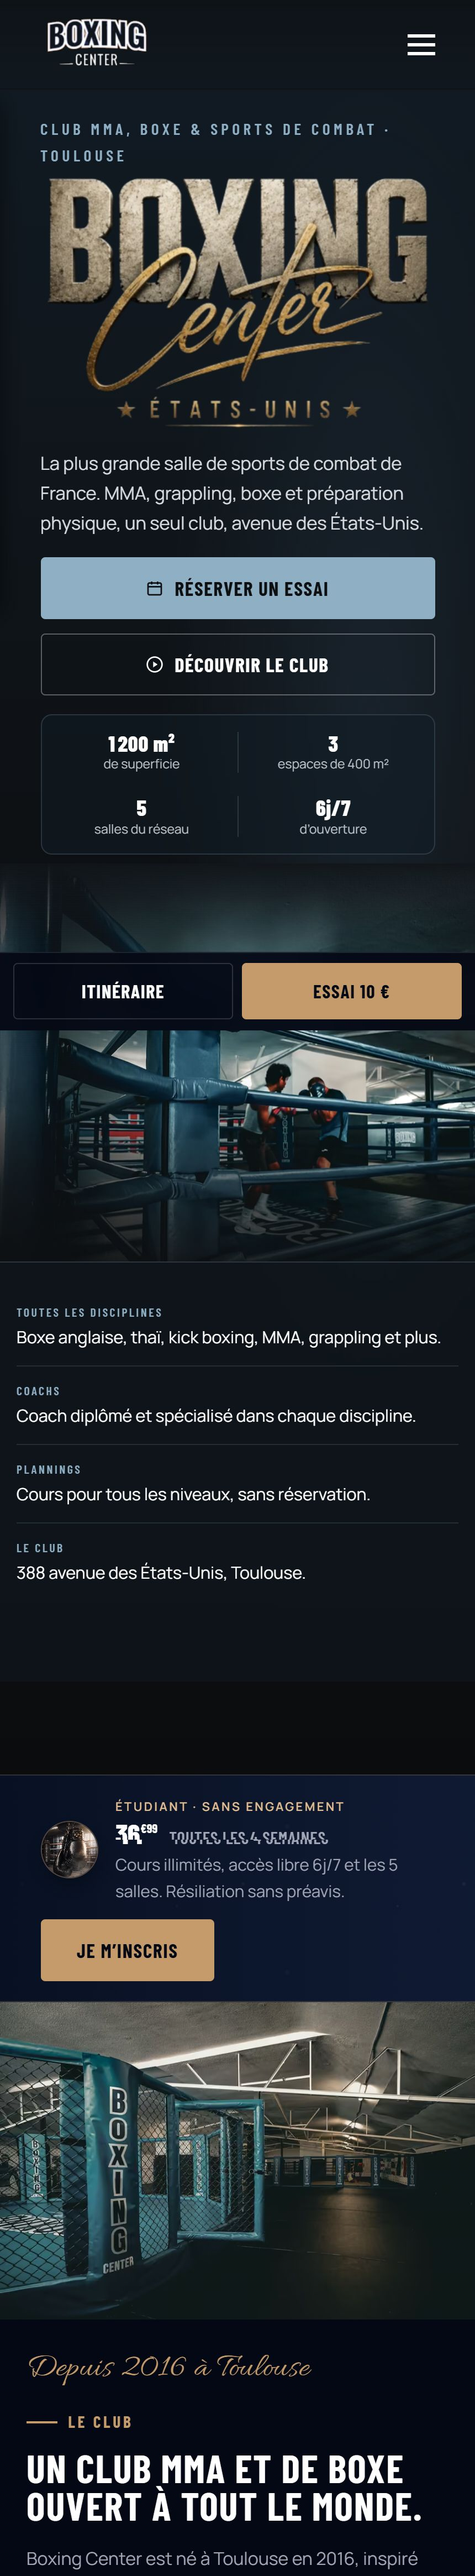
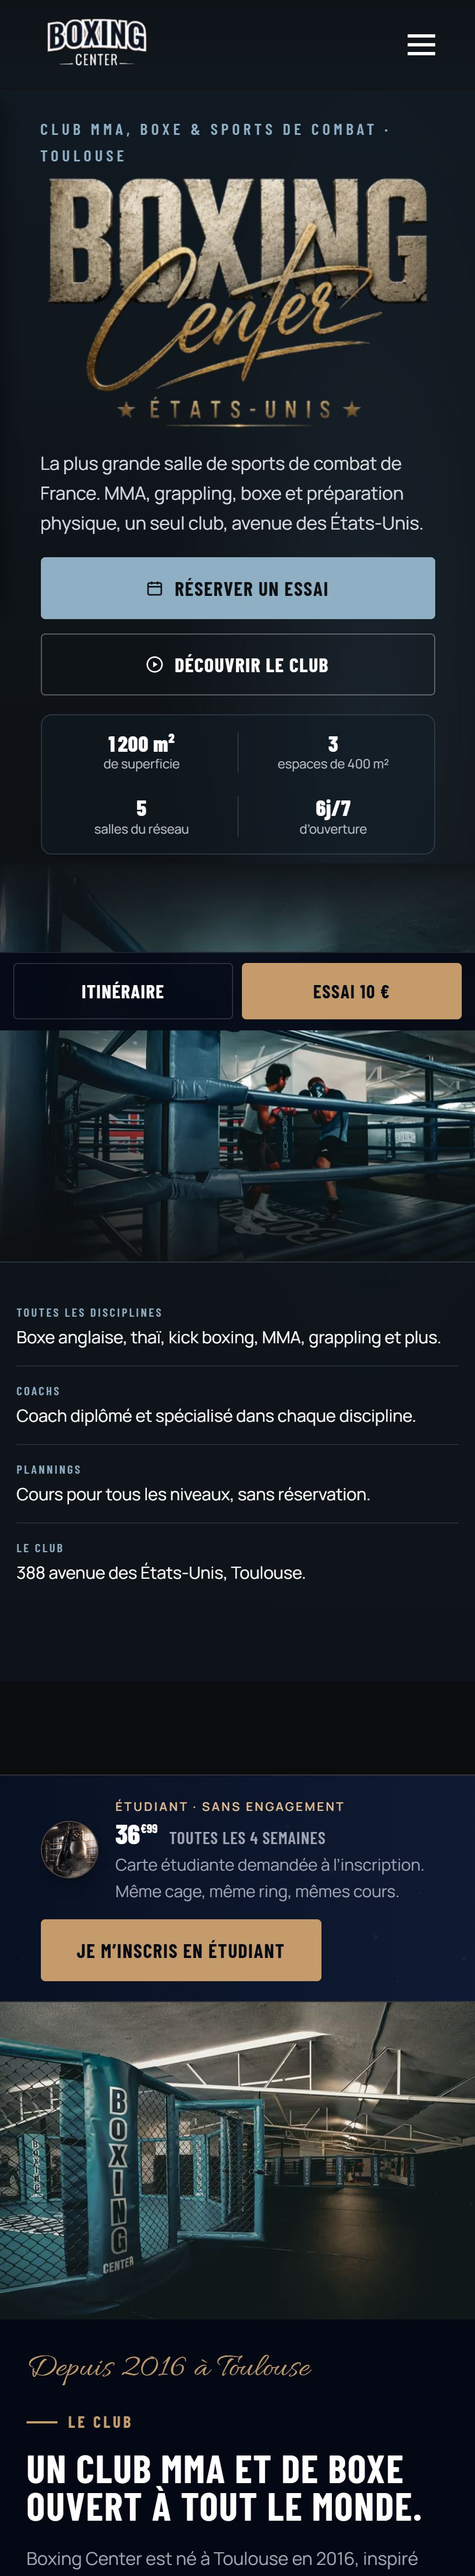
registre(eam): la capture d'États-Unis montre une seule offre à la fois ; l'assemblage des écrans choisit désormais sa couture là où les deux prises concordent
Sur la fiche de Boxing Center États-Unis, le bloc des offres ne mélange plus deux formules : la couture entre les écrans deux et trois tombait en plein milieu d'un bloc qui tourne toutes les cinq secondes, et l'on voyait le titre d'une formule, le texte de l'autre et un prix dédoublé. L'assemblage coupe maintenant dans la plus longue zone où les deux prises sont identiques, sur sa ligne la plus unie — jamais au travers d'un bloc qui bouge.

La marche garde aussi les cartes épinglées qui font partie du contenu : seules les barres (en-tête, navigation, bandeau fin collé à un bord) et les éléments fixes sont masqués à partir du deuxième écran.

Changed region(s): [[0.2721, 0.7157, 0.8465, 0.7779]]

diff --git a/scripts/capture-convert.py b/scripts/capture-convert.py
@@ -1,8 +1,10 @@
 """Turn a sweep's PNGs (scripts/capture-sweep.mjs) into the house JPEGs:
 <slug>.jpg from the desktop shot (2400 px wide, q82, progressive) and
 <slug>-m.jpg stitched from the phone segments (860 px wide; each segment
-pasted at twice its css scrollY, later segments over earlier ones; height
-capped at 4660 = 2.5 screens, never below 1864). Writes into <outDir>;
+pasted at twice its css scrollY; where two segments overlap, the seam is cut
+at the rows where they agree best, so a block that animates in time is taken
+whole from one shot — a fixed cut through clubmma.fr's rotating offers mixed
+two slides, 2026-11-08; height capped at 4660 = 2.5 screens, never below 1864). Writes into <outDir>;
 nothing touches public/thumbs here — copying is a separate, eyeballed step
 (scripts/capture-sheets.py draws the OLD | NEW sheets). Run with -I.
 
@@ -12,7 +14,7 @@ import json
 import os
 import sys
 
-from PIL import Image
+from PIL import Image, ImageChops, ImageStat
 
 sweep, out = sys.argv[1], sys.argv[2]
 only = set(sys.argv[3:])
@@ -22,6 +24,47 @@ SCREEN2X = 1864
 MAX2X = 4660
 report = []
 gaps = []
+seams = []
+QUIET = 2  # a row where the two shots differ by less than this agrees
+
+
+def row_costs(a, b):
+    """Per-row mean absolute difference between two equally sized bands."""
+    d = ImageChops.difference(a.convert('L'), b.convert('L'))
+    return list(d.resize((1, d.size[1]), Image.BOX).tobytes())
+
+
+def best_cut(prev_y, prev_im, y, im):
+    """Canvas row where the later segment takes over: the middle of the longest
+    stretch of the overlap where the two shots agree — a boundary between
+    blocks, not a line gap inside one (clubmma.fr's rotating offers were still
+    split by a 12 px gap between their price and their text). Falls back to
+    the quietest 12-row window, and to the overlap's top when nothing overlaps."""
+    prev_bottom = prev_y + prev_im.size[1]
+    bottom = min(prev_bottom, y + im.size[1])
+    if bottom - y < 24:
+        return y, None
+    costs = row_costs(prev_im.crop((0, y - prev_y, 860, bottom - prev_y)), im.crop((0, 0, 860, bottom - y)))
+    runs, start = [], None
+    for i, c in enumerate(costs + [255]):
+        if c <= QUIET and start is None:
+            start = i
+        if c > QUIET and start is not None:
+            runs.append((i - start, start, i))
+            start = None
+    if runs:
+        length, s, e = max(runs)
+        # Inside that stretch, the flattest row: a faint tint step between two
+        # shots hides in plain background, not across a photo (Portet, 2026-11-08).
+        band = im.crop((0, s, 860, e)).convert('L')
+        flat = min(range(e - s), key=lambda r: ImageStat.Stat(band.crop((0, r, 860, r + 1))).stddev[0])
+        return y + s + flat, (f'flattest row of the longest quiet stretch ({length} px at +{s}, row +{s + flat})', bottom - y)
+    best, best_cost = 0, None
+    for r in range(0, len(costs) - 12 + 1):
+        c = sum(costs[r:r + 12]) / 12
+        if best_cost is None or c < best_cost - 1e-9:
+            best, best_cost = r, c
+    return y + best, (f'quietest window at +{best} (cost {best_cost:.1f}, nothing agrees)', bottom - y)
 
 for slug, f in sorted(facts.items()):
     if only and slug not in only:
@@ -54,13 +97,22 @@ for slug, f in sorted(facts.items()):
             gaps.append(f'{slug}: {y - covered} px uncovered at {covered}')
         covered = max(covered, y + im.size[1])
     canvas = Image.new('RGB', (860, height), (7, 13, 24))
+    prev = None
     for y, im in tiles:
-        canvas.paste(im, (0, y))
+        cut = y
+        if prev is not None:
+            cut, info = best_cut(prev[0], prev[1], y, im)
+            if info:
+                seams.append(f'{slug}: seam at {cut} — {info[0]} of a {info[1]} px overlap')
+        canvas.paste(im.crop((0, cut - y, 860, im.size[1])), (0, cut))
+        prev = (y, im)
     canvas.save(os.path.join(out, f'{slug}-m.jpg'), 'JPEG', quality=80, progressive=True, optimize=True)
     report.append((slug, f'd 2400x{d.size[1]} · m 860x{height} ({len(tiles)} seg)'))
 
 for slug, line in report:
     print(f'{slug:28} {line}')
+for s in seams:
+    print('  ' + s)
 print('converted', len(report))
 if gaps:
     print('UNCOVERED BANDS — reshoot these, the stitch is not shippable:')
